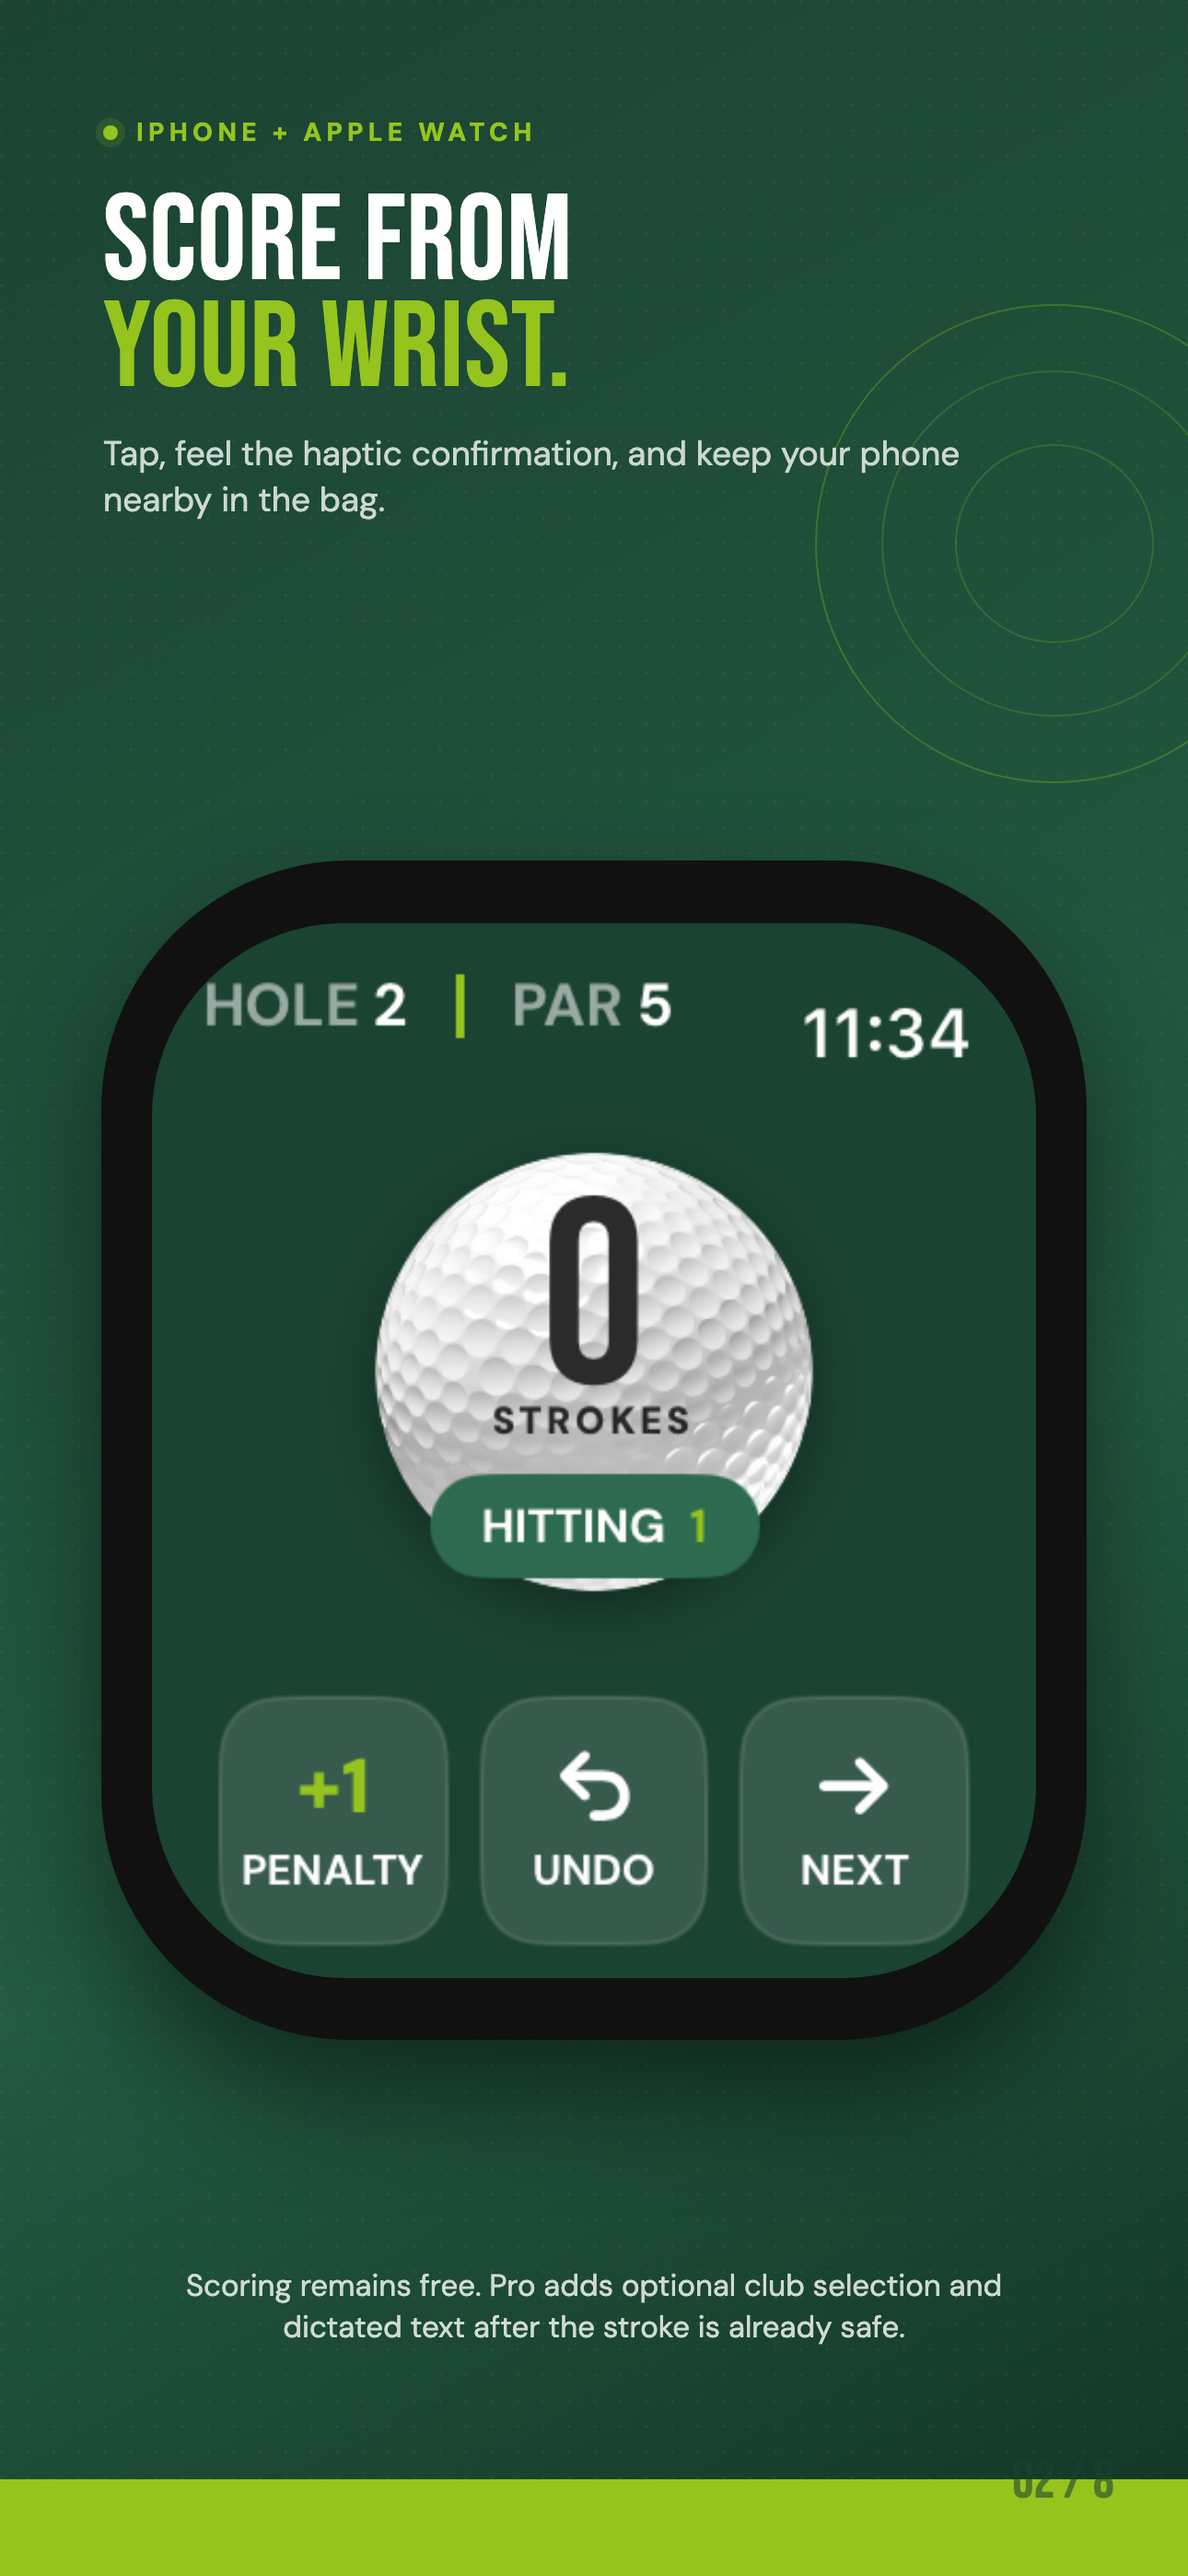
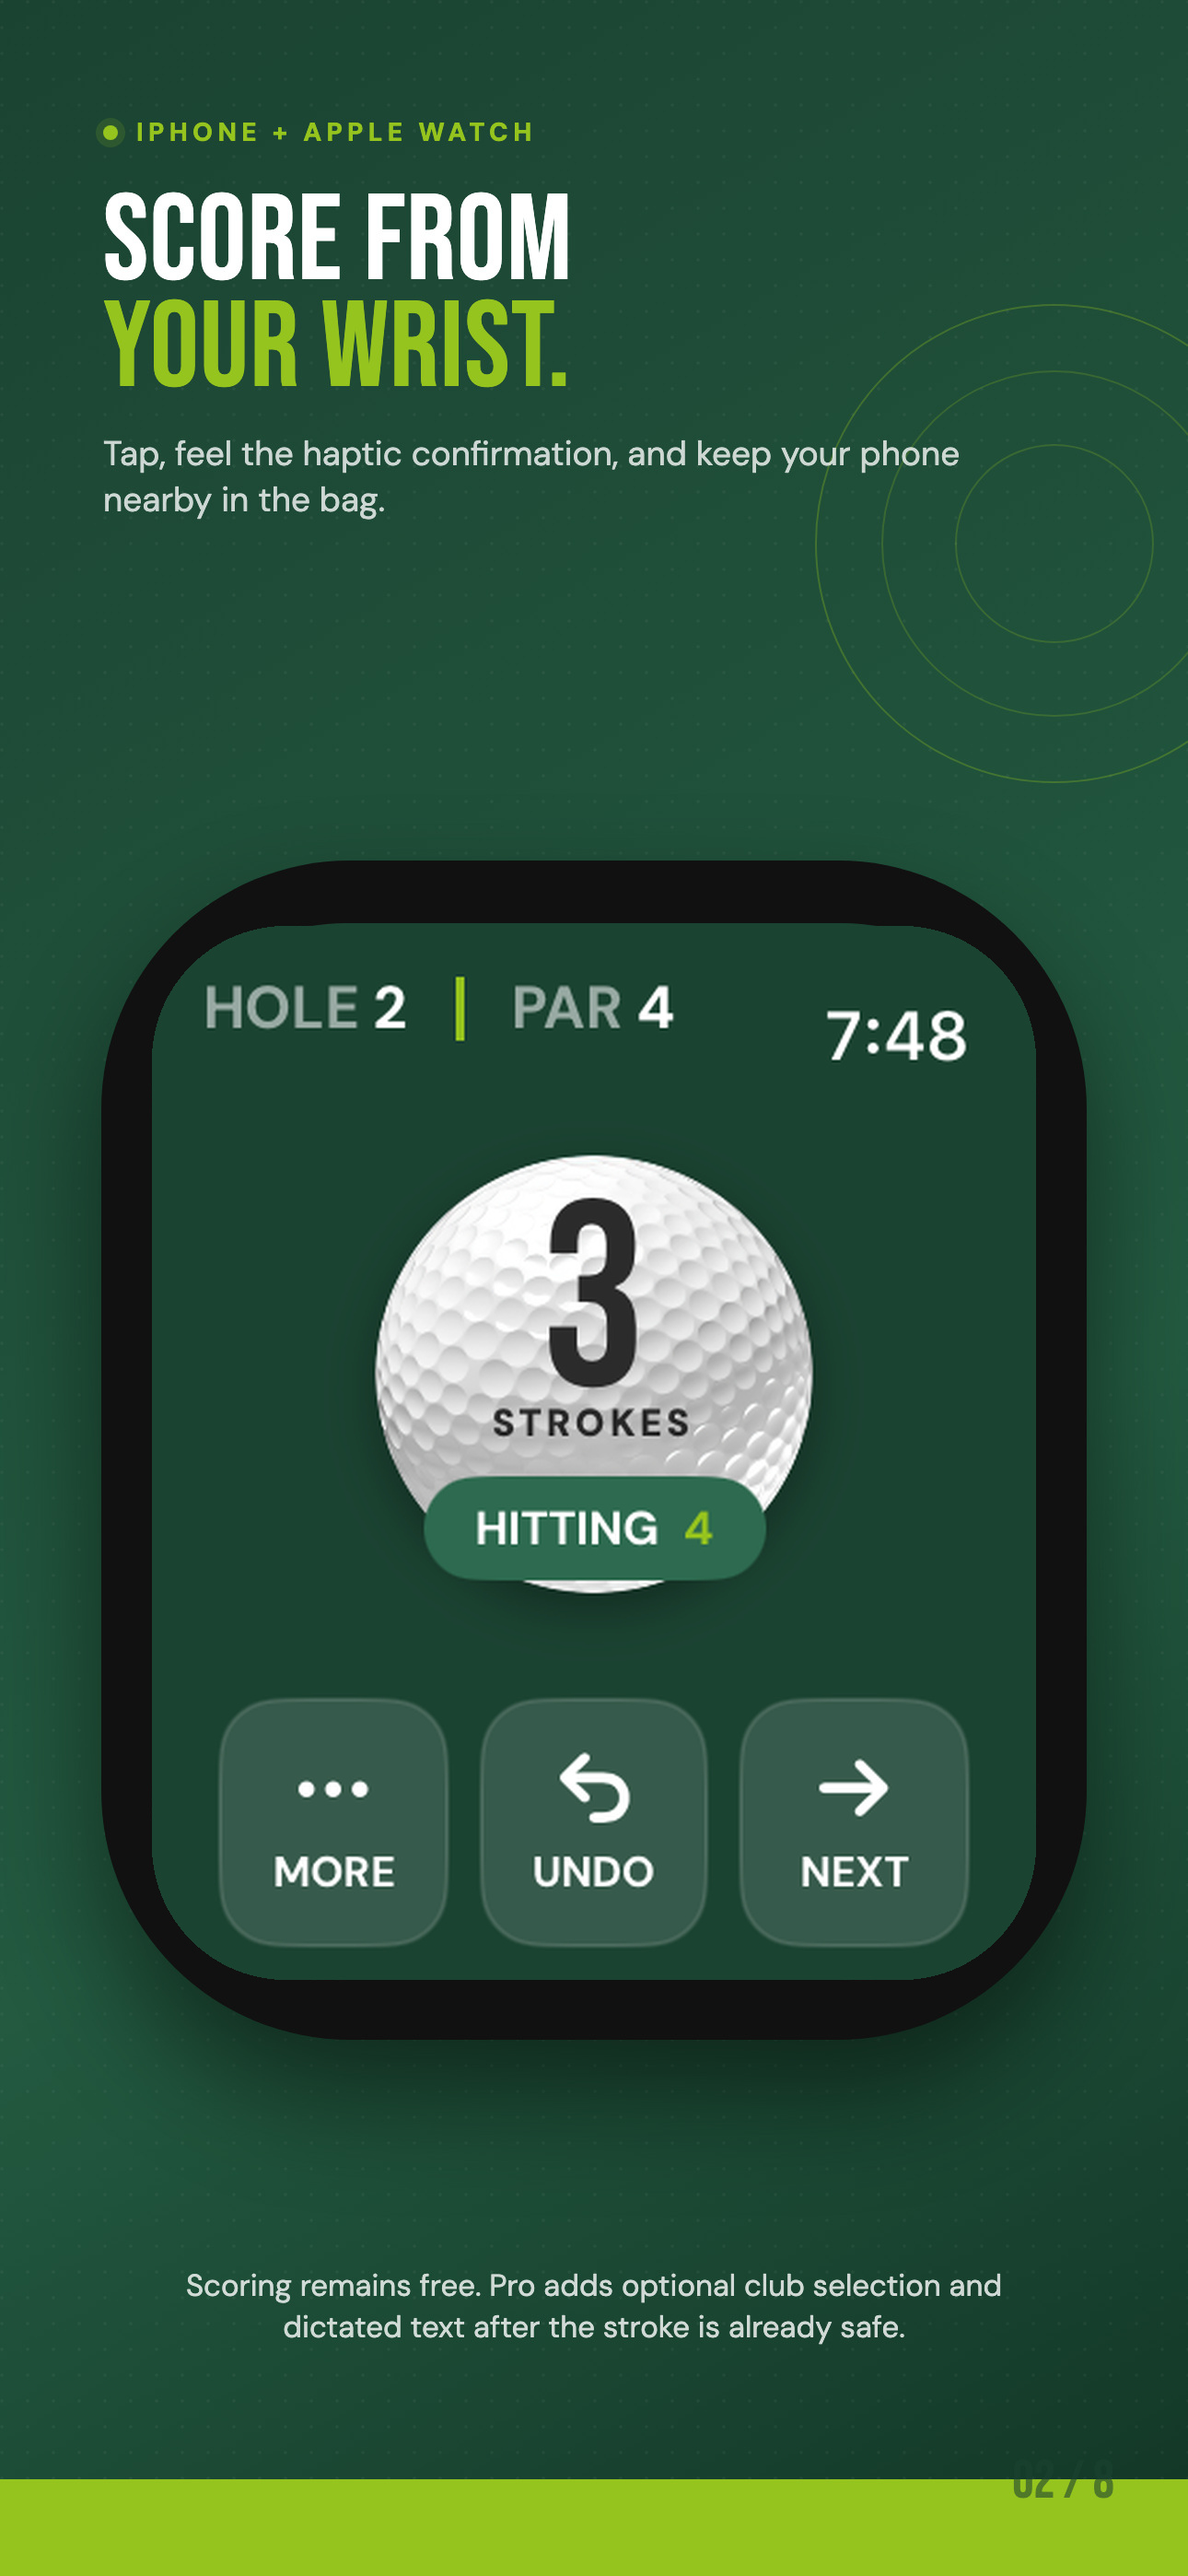
Align Watch launch copy and improve site accessibility

diff --git a/app/pro/pro.module.css b/app/pro/pro.module.css
@@ -297,7 +297,7 @@
 .featureGrid { margin-top: 50px; display: grid; grid-template-columns: repeat(2, 1fr); gap: 1px; background: rgba(27,67,50,.14); border: 1px solid rgba(27,67,50,.14); }
 .featureCard { min-height: 360px; padding: clamp(28px, 4vw, 46px); display: flex; flex-direction: column; background: var(--offwhite); }
 .featureMeta { display: flex; align-items: center; justify-content: space-between; gap: 20px; }
-.featureMeta span { color: var(--lime); font-family: var(--font-display); font-size: 27px; }
+.featureMeta span { color: var(--green-mid); font-family: var(--font-display); font-size: 27px; }
 .featureMeta p { color: var(--green-mid); font-size: 12px; font-weight: 850; letter-spacing: .15em; text-transform: uppercase; }
 .featureCard h3 { max-width: 13ch; margin-top: 42px; color: var(--green-deep); font-size: clamp(34px, 4vw, 52px); }
 .featureCard > p { max-width: 580px; margin-top: 20px; color: var(--gray-dark); font-size: 16px; line-height: 1.66; }
@@ -315,7 +315,7 @@
 .plans { max-width: 800px; margin: 46px auto 30px; display: grid; grid-template-columns: 1fr 1fr; gap: 20px; text-align: left; }
 .plan { min-height: 220px; padding: 30px; display: flex; flex-direction: column; border: 2px solid rgba(27,67,50,.14); }
 .planFeatured { border-color: var(--green-mid); background: rgba(150,196,30,.16); }
-.plan > span { color: var(--gray-body); font-size: 12px; font-weight: 850; letter-spacing: .15em; text-transform: uppercase; }
+.plan > span { color: var(--green-mid); font-size: 12px; font-weight: 850; letter-spacing: .15em; text-transform: uppercase; }
 .plan p { margin-top: 22px; color: var(--gray-dark); }
 .plan p strong { color: var(--green-deep); font-family: var(--font-display); font-size: 58px; font-weight: 400; line-height: 1; }
 .plan > b { margin-top: auto; color: var(--green-mid); font-size: 13px; }

diff --git a/app/features/features.module.css b/app/features/features.module.css
@@ -96,7 +96,7 @@
   background: #fff;
 }
 
-.freeGrid article > span { color: var(--lime); font-family: var(--font-display); font-size: 28px; }
+.freeGrid article > span { color: var(--green-mid); font-family: var(--font-display); font-size: 28px; }
 .freeGrid h3 { max-width: 11ch; margin-top: 38px; color: var(--green-deep); font-size: 34px; }
 .freeGrid p { margin-top: 17px; color: var(--gray-body); font-size: 15px; line-height: 1.62; }
 
@@ -142,7 +142,7 @@
 .proSection > * { max-width: var(--wrap); margin-inline: auto; }
 .proList { margin-top: 50px; display: grid; grid-template-columns: 1fr 1fr; gap: 1px; background: rgba(27,67,50,.15); border: 1px solid rgba(27,67,50,.15); }
 .proList article { min-height: 190px; padding: 28px 32px; display: grid; grid-template-columns: 48px 1fr; gap: 22px; background: var(--offwhite); }
-.proList article > span { color: var(--lime); font-family: var(--font-display); font-size: 27px; }
+.proList article > span { color: var(--green-mid); font-family: var(--font-display); font-size: 27px; }
 .proList h3 { color: var(--green-deep); font-size: 31px; }
 .proList p { margin-top: 12px; color: var(--gray-body); font-size: 15px; line-height: 1.6; }
 .proAction { margin-top: 34px; text-align: center; }

diff --git a/app/features/page.tsx b/app/features/page.tsx
@@ -56,7 +56,7 @@ const proFeatures = [
   ["Golf trips", "Connect several rounds and follow cumulative gross results across the trip."],
   ["Private round journal", "Attach personal notes and photos to the scorecard you want to remember."],
   ["Paper scorecard scan", "Recognize a photographed card on iPhone, then review every value before saving."],
-  ["Watch shot details", "After scoring, optionally choose a club and add dictated text without storing raw audio."],
+  ["Watch shot details", "From the Watch More menu, optionally attach a club or dictated text to your latest stroke without storing raw audio."],
 ];
 
 export default function FeaturesPage() {
@@ -124,8 +124,8 @@ export default function FeaturesPage() {
           <p>
             Tap to add a stroke, feel the confirmation, undo a mistake, add a
             penalty, and advance holes from the Watch. Scoring remains free.
-            Pro adds optional club selection and dictated text after the stroke
-            is already safe.
+            With Pro, open More whenever you want to attach a club or dictated
+            text to the latest stroke. Nothing interrupts the next tap.
           </p>
         </div>
       </section>

diff --git a/components/Nav.tsx b/components/Nav.tsx
@@ -10,11 +10,11 @@ export default function Nav() {
       <div className="container ss-nav-inner">
         <Link href="/" aria-label="SimplyStroke home">
           <Image
-            src="/images/logo-color.png"
+            src="/images/logo-color.webp"
             alt="SimplyStroke"
             className="ss-logo"
-            width={560}
-            height={162}
+            width={280}
+            height={81}
           />
         </Link>
         <div className="ss-nav-right">
@@ -39,7 +39,6 @@ export default function Nav() {
             href={APP_STORE_URL}
             size="compact"
             apple
-            aria-label="Download SimplyStroke on the App Store"
           >
             Download free
           </PrimaryCta>

diff --git a/app/page.tsx b/app/page.tsx
@@ -208,7 +208,6 @@ export default async function Home() {
               tone="light"
               href={APP_STORE_URL}
               className={`${styles.primaryCta} ${styles.heroStoreCta}`}
-              aria-label="Download SimplyStroke free on the App Store"
               size="large"
               apple
               subtitle="on the App Store"
@@ -442,7 +441,6 @@ export default async function Home() {
             tone="light"
             href={APP_STORE_URL}
             className={styles.primaryCta}
-            aria-label="Download SimplyStroke free on the App Store"
             size="large"
             apple
             subtitle="on the App Store"

diff --git a/app/pro/page.tsx b/app/pro/page.tsx
@@ -52,7 +52,7 @@ const featureGroups = [
     number: "04",
     eyebrow: "Your memory",
     title: "Remember the shot, not just the number.",
-    body: "Add private round notes and photos. From Apple Watch, optionally attach a club and dictated text after a stroke. SimplyStroke stores the returned text, not a raw voice recording.",
+    body: "Add private round notes and photos. From the Apple Watch More menu, optionally attach a club or dictated text to your latest stroke. SimplyStroke stores the returned text, not a raw voice recording.",
     accent: "7 iron · pulled left",
   },
   {

diff --git a/app/home.module.css b/app/home.module.css
@@ -6238,6 +6238,10 @@
   background: var(--lime);
 }
 
+.groupModeRowActive small {
+  color: var(--green-deep);
+}
+
 .groupModeRowActive b {
   background: var(--green-deep);
   color: #fff;

diff --git a/assets/app-store/1.0.4/README.md b/assets/app-store/1.0.4/README.md
@@ -1,15 +1,15 @@
 # SimplyStroke 1.0.4 App Store screenshots
 
-Status: **design-complete draft; do not upload yet.**
+Status: **pre-release draft; do not upload yet.**
 
-These eight 1290 × 2796 JPEGs use an accepted Apple 6.9-inch iPhone screenshot size. They contain no alpha channel. The source screens are real 1.0.4 app components captured from candidate a6553ee8cffce832e501289276551ec25c760910; the journal, season, crews, trips, and OCR data are fictional, write-free review fixtures.
+These eight 1290 × 2796 JPEGs use an accepted Apple 6.9-inch iPhone screenshot size. They contain no alpha channel. The source screens are real 1.0.4 app components captured from candidate a6553ee8cffce832e501289276551ec25c760910; image 02 was refreshed from the user-invoked Watch UI at native candidate 6998ca8635bd852025a8ac81e32ff6d5ca4c812a. The journal, season, crews, trips, and OCR data are fictional, write-free review fixtures.
 
 Each image is numbered against the eight-image set (`01 / 8` through `08 / 8`). `contact-sheet.jpg` was regenerated from these exact final draft files.
 
 ## Sequence
 
 1. 01-score.jpg — free one-tap scoring
-2. 02-watch.jpg — free Apple Watch scoring, with optional Pro shot detail described
+2. 02-watch.jpg — free Apple Watch scoring with the user-opened More control and optional Pro shot detail described
 3. 03-pro.jpg — Free versus Pro overview
 4. 04-season.jpg — season stats and visual recap
 5. 05-crews.jpg — saved crews

diff --git a/docs/FACT-LOCK.md b/docs/FACT-LOCK.md
@@ -42,7 +42,7 @@ Verified candidate capabilities:
 - saved crews, comparable shared history, and multi-round golf trips with cumulative gross results;
 - private round notes and photos;
 - on-device Apple Vision paper-scorecard recognition with mandatory human review before save;
-- optional Apple Watch club selection and system-Dictation text after a stroke has already been recorded.
+- optional Apple Watch club selection and system-Dictation text attached to the latest recorded stroke from the user-opened More menu; recording a stroke never opens the details flow automatically.
 
 One Pro organizer can use the Pro crew/trip organization tools while invited friends play the standard group round for free.
 
